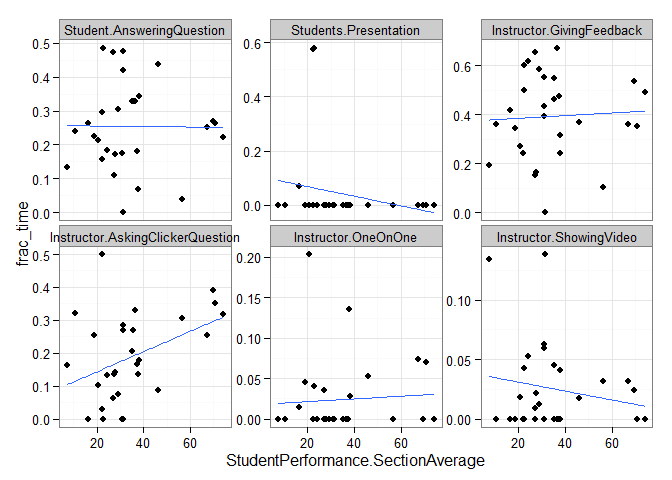
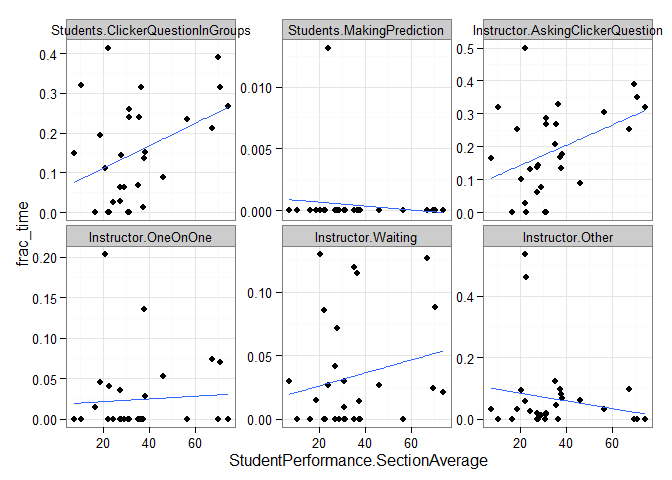
Finalizing report

diff --git a/Analysis_report.md b/Analysis_report.md
@@ -83,7 +83,7 @@ Number of rows/columns all over the place - assume that there should only be 26 
 
 ![](Analysis_report_files/figure-html/unnamed-chunk-10-1.png) 
 
-## Number of different instructors per course
+## Number of different instructor-semester pairings per course
 
 ![](Analysis_report_files/figure-html/unnamed-chunk-11-1.png) 
 
@@ -194,18 +194,41 @@ It really doesn't make sense to look across courses since different courses have
 #### Take only the dimensions that are significant (top 6)
 
 
-|id                               |   Estimate| Std. Error|      pval| Pr(>&#124;t&#124;)|
-|:--------------------------------|----------:|----------:|---------:|------------------:|
-|Instructor.AskingClickerQuestion |  -753.4640|   313.7805| -2.401246|          0.0957672|
-|Instructor.OneOnOne              | -1358.9201|   630.4000| -2.155647|          0.1200670|
-|Students.Presentation            |  -947.9532|   548.6590| -1.727764|          0.1824799|
-|Instructor.GivingFeedback        |  -299.9165|   204.1989| -1.468747|          0.2382211|
-|Student.AnsweringQuestion        |  -309.3133|   219.2729| -1.410632|          0.2531652|
-|Instructor.ShowingVideo          |  -255.3824|   198.1522| -1.288819|          0.2878514|
+|id                               |   estimate|    stderr|      tval|      pval|
+|:--------------------------------|----------:|---------:|---------:|---------:|
+|Students.ClickerQuestionInGroups |   792.4511|  329.6340|  2.404033| 0.0955275|
+|Instructor.AskingClickerQuestion |  -753.4640|  313.7805| -2.401246| 0.0957672|
+|Instructor.OneOnOne              | -1358.9201|  630.4000| -2.155647| 0.1200670|
+|Instructor.Waiting               |   606.3203|  301.1180|  2.013564| 0.1375088|
+|Students.MakingPrediction        |  6810.2533| 3566.5069|  1.909502| 0.1522005|
+|Instructor.Other                 |   822.8232|  476.2320|  1.727778| 0.1824773|
 
 #### Looking at how these variables predict student performance
 
 ![](Analysis_report_files/figure-html/unnamed-chunk-18-1.png) 
+
+Conclusion: cannot compare across courses
+
+# Question 3 - which classes are arranged such that they have similar amounts of time spent on each activity?
+
+## Focusing on course 12 for now
+
+
+```
+## Loading required package: gplots
+## 
+## Attaching package: 'gplots'
+## 
+## The following object is masked from 'package:stats':
+## 
+##     lowess
+```
+
+
+
+NOTE: The gradient labels represents the students performance, normalized between 0 to 1. Brown = low, purple = high (values normalized between 0 to 1)
+
+![](Analysis_report_files/figure-html/unnamed-chunk-21-1.png) 
 
 ## Time spent on lecture vs student growth
 
@@ -214,10 +237,6 @@ All courses - each dot is one course (separated by year level)
 ![](Analysis_report_files/figure-html/student_perf_vs_lecture_time-1.png) 
 
 Looks like there's a positive correlation with lecture time and student performance in first year classes, and a negative correlation in second year classes
-
-# Question 2: Quantifying transitions in class "states"
-
-Looking only at 
 
 ## Time spent on lecture vs student growth
 
